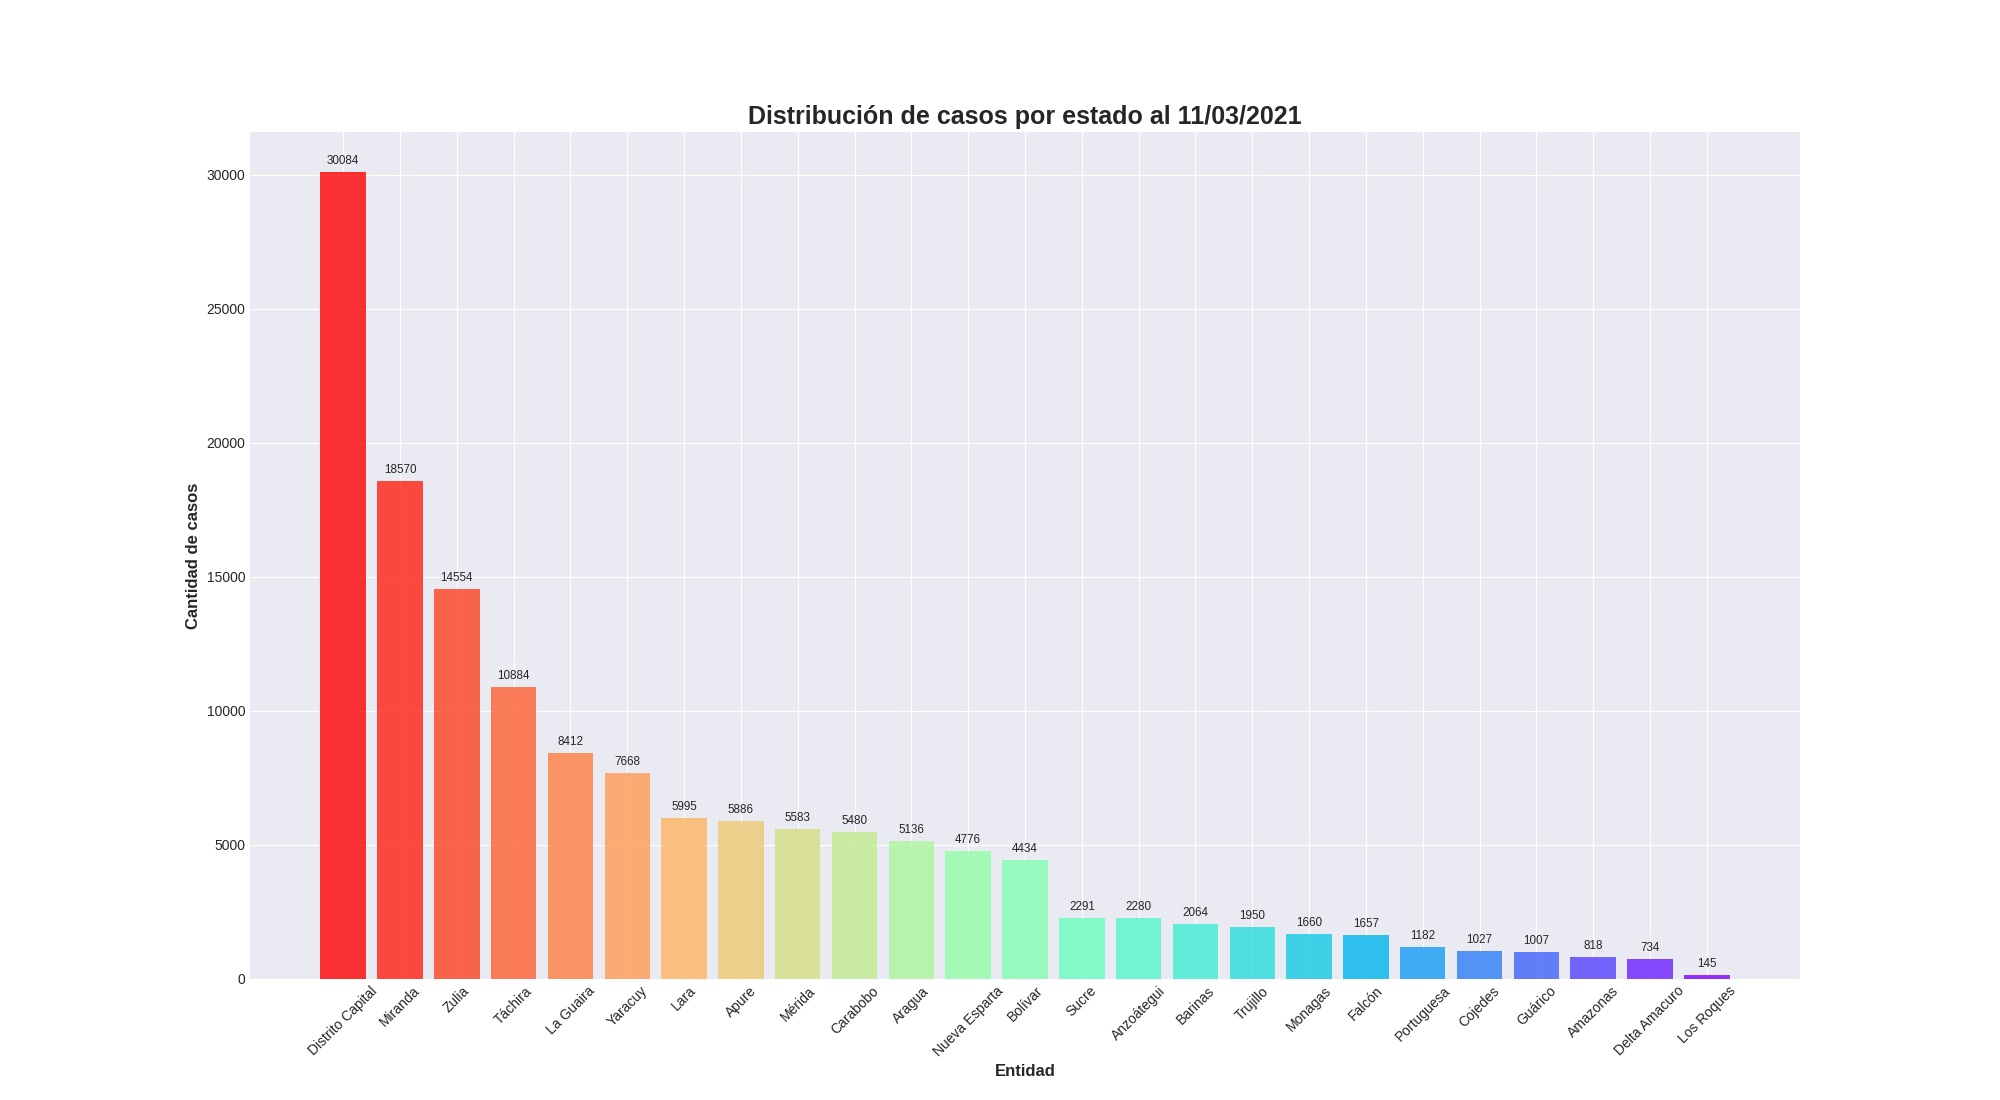
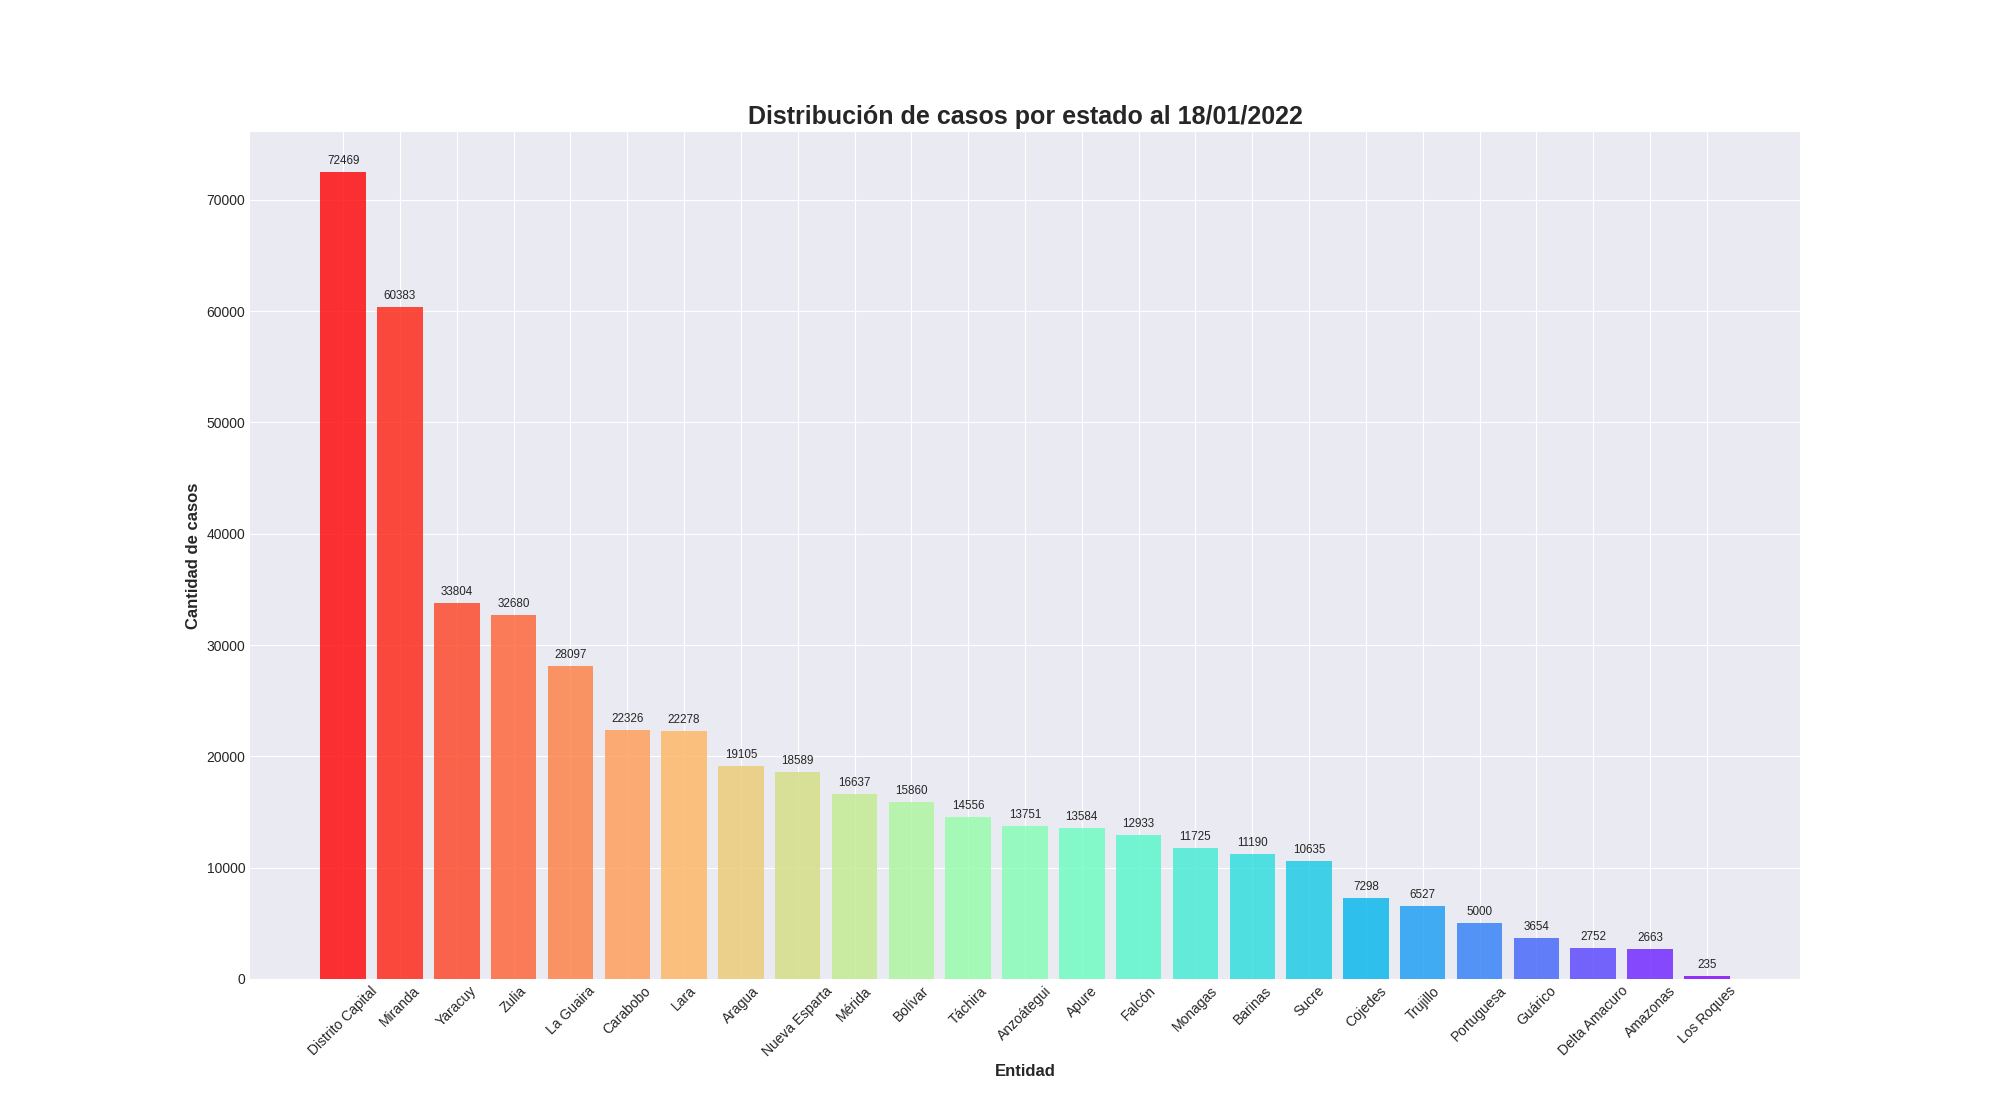
[ADD] Se introduce la funcionalidad de especificar un rango de dos fechas

diff --git a/corona-ve.py b/corona-ve.py
@@ -15,6 +15,7 @@ import numpy as np
 import pandas as pd
 import matplotlib.cm as cm
 import sys
+from datetime import datetime, time
 
 
 # Dimensión de los gráficos generados
@@ -27,7 +28,7 @@ plt.rcParams['axes.titleweight'] = 'bold'
 
 
 # Función para añadir valores encima de las gráficas
-def show_values_on_bars(axs,maxv):
+def show_values_on_bars(axs, maxv):
     def _show_on_single_plot(ax):
         for p in ax.patches:
             _x = p.get_x() + p.get_width() / 2
@@ -41,17 +42,37 @@ def show_values_on_bars(axs,maxv):
     else:
         _show_on_single_plot(axs)
 
-def show_values_on_lines(x,y):
-        #for i,j in zip(x,y):
-            #if int(j) > 0:
-                #ax.annotate(str(j),xy=(i,j), xytext=(-5,6), textcoords='offset points', size="x-small")
-        ax.annotate(str(y),xy=(x,y), xytext=(5,-1), textcoords='offset points', size="x-small")
+
+def show_values_on_lines(x, y):
+    # for i,j in zip(x,y):
+    # if int(j) > 0:
+    #ax.annotate(str(j),xy=(i,j), xytext=(-5,6), textcoords='offset points', size="x-small")
+    ax.annotate(str(y), xy=(x, y), xytext=(5, -1),
+                textcoords='offset points', size="x-small")
 
 
 # Carga de datos y generación de Data frames para los gráficos de línea de tiempo
 try:
+    arguments = len(sys.argv)-1
     timeline = pd.read_json('https://covid19.patria.org.ve/api/v1/timeline')
     timeline['Date'] = timeline['Date'].dt.date
+    f_ini = timeline['Date'].iloc[0]
+    f_fin = timeline['Date'].iloc[-1]
+    f_fin2 = timeline.iloc[-1]
+
+    if arguments > 0:
+        try:
+            f_ini = datetime.strptime(sys.argv[1], "%Y-%m-%d").date()
+            if arguments == 2:
+                f_fin = datetime.strptime(sys.argv[2], "%Y-%m-%d").date()
+
+            mask = (timeline['Date'] >= f_ini) & (timeline['Date'] <= f_fin)
+            timeline = timeline.loc[mask].reset_index()
+        except:
+            print(
+                "Error en formato de fecha, use el siguiente formato: YYYY-MM-DD o YYYY-M-D")
+            print("Se usarán los rangos de fecha predeterminados.")
+
     df_confirmed = pd.DataFrame(timeline.Confirmed.values.tolist())
     df_recovered = pd.DataFrame(timeline.Recovered.values.tolist())
     df_deaths = pd.DataFrame(timeline.Deaths.values.tolist())
@@ -65,8 +86,8 @@ try:
                         df_recovered['New'], df_deaths['New']], axis=1)
     nuevos.columns = ['Date', 'New_Confirmed', 'New_Recovered', 'New_Death']
     df_nuevos = nuevos.melt('Date', var_name='cols',  value_name='vals')
+    first_report = timeline.iloc[0]
     last_report = timeline.iloc[-1]
-
 
     # Carga de datos y generación de Data frames para los gráficos de resúmen
     summary = pd.read_json('https://covid19.patria.org.ve/api/v1/summary')
@@ -83,29 +104,33 @@ try:
     df_states = pd.DataFrame(
         summary.Confirmed['ByState'].items(), columns=["State", "Count"])
 
-
     # Gráfico del número de casos registrados en Venezuela
     fig, ax = plt.subplots(figsize=dims)
     ax.plot(confirmados["Date"], confirmados["Count"],
             '-', label='Confirmados (acumulados)', alpha=0.8)
-    show_values_on_lines(confirmados["Date"].iloc[-1], confirmados["Count"].iloc[-1])
+    show_values_on_lines(
+        confirmados["Date"].iloc[-1], confirmados["Count"].iloc[-1])
     ax.plot(recuperados["Date"], recuperados["Count"],
             '-', label='Recuperados (acumulados)', alpha=0.8)
-    show_values_on_lines(recuperados["Date"].iloc[-1], recuperados["Count"].iloc[-1])
+    show_values_on_lines(
+        recuperados["Date"].iloc[-1], recuperados["Count"].iloc[-1])
     ax.plot(activos["Date"], activos["Count"],
             '-', label='Activos (acumulados)', alpha=0.8)
     show_values_on_lines(activos["Date"].iloc[-1], activos["Count"].iloc[-1])
     ax.plot(fallecidos["Date"], fallecidos["Count"],
             '-', label='Fallecidos (acumulados)', alpha=0.8)
-    show_values_on_lines(fallecidos["Date"].iloc[-1], fallecidos["Count"].iloc[-1])
-    #ax.bar(nuevos["Date"],nuevos["New_Confirmed"],color='C6')
+    show_values_on_lines(
+        fallecidos["Date"].iloc[-1], fallecidos["Count"].iloc[-1])
+    # ax.bar(nuevos["Date"],nuevos["New_Confirmed"],color='C6')
     ax.plot(nuevos["Date"], nuevos["New_Confirmed"],
             '-', label='Confirmados (diarios)', color='black', alpha=0.8)
-    show_values_on_lines(nuevos["Date"].iloc[-1], nuevos["New_Confirmed"].iloc[-1])
+    show_values_on_lines(nuevos["Date"].iloc[-1],
+                         nuevos["New_Confirmed"].iloc[-1])
     plt.xticks(rotation=45, ha='center')
     plt.xlabel("")
     plt.ylabel("Cantidad de casos", fontsize=12, weight='bold')
-    plt.title("Casos de COVID-19 en Venezuela al "+last_report['Date'].strftime('%d/%m/%Y'), fontsize=18, weight='bold')
+    plt.title("Casos de COVID-19 en Venezuela del " + first_report['Date'].strftime('%d/%m/%Y') + " al " +
+              last_report['Date'].strftime('%d/%m/%Y'), fontsize=18, weight='bold')
     # start, end = ax.get_xlim()
     # ax.xaxis.set_ticks(np.arange(start, end, 5))
     myFmt = mdates.DateFormatter('%Y-%m-%d')
@@ -113,30 +138,49 @@ try:
     ax.legend(loc='upper left', fontsize=12)
     plt.savefig("fig1.png")
 
-
+    # Gráfico del número de casos confirmados en Venezuela
+    fig, ax = plt.subplots(figsize=dims)
+    ax.plot(nuevos['Date'], nuevos["New_Confirmed"],
+            '-', label='Confirmados (acumulados)', alpha=0.8)
+    # ax.bar(nuevos['Date'], nuevos["New_Confirmed"],
+                #   width=1, label='Confirmados', alpha=0.8)
+    # show_values_on_lines(
+        # nuevos['Date'].iloc[-1], nuevos["New_Confirmed"].iloc[-1])
+    # ax.bar(nuevos["Date"],nuevos["New_Confirmed"],color='C6')
+    plt.xticks(rotation=45, ha='center')
+    plt.xlabel("")
+    plt.ylabel("Cantidad de casos", fontsize=12, weight='bold')
+    plt.title("Casos Diarios Confirmados de COVID-19 en Venezuela del " + first_report['Date'].strftime('%d/%m/%Y') + " al " +
+              last_report['Date'].strftime('%d/%m/%Y'), fontsize=18, weight='bold')
+    # start, end = ax.get_xlim()
+    # ax.xaxis.set_ticks(np.arange(start, end, 5))
+    myFmt = mdates.DateFormatter('%Y-%m-%d')
+    ax.xaxis.set_major_formatter(myFmt)
+    ax.legend(loc='upper left', fontsize=12)
+    plt.savefig("fig2.png")
 
     # Gráfico del número de casos nuevos en Venezuela
     fig, ax = plt.subplots(figsize=dims)
     x = date2num(nuevos['Date'])
     barwidth = .3
     bar1 = ax.bar(x - barwidth, nuevos["New_Confirmed"],
-                width=barwidth, label='Confirmados', alpha=0.8)
+                  width=barwidth, label='Confirmados', alpha=0.8)
     bar2 = ax.bar(x, nuevos["New_Recovered"],
-                width=barwidth, label='Recuperados', alpha=0.8)
+                  width=barwidth, label='Recuperados', alpha=0.8)
     bar3 = ax.bar(x + barwidth, nuevos["New_Death"],
-                width=barwidth, label='Fallecidos', color='C3', alpha=0.8)
+                  width=barwidth, label='Fallecidos', color='C3', alpha=0.8)
     plt.xticks(rotation=45, ha='center')
-    start, end = ax.get_xlim()
-    #ax.xaxis.set_ticks(np.arange(start, end, 5))
-    #show_values_on_bars(ax)
+    # show_values_on_bars(ax)
     plt.xlabel("")
     plt.ylabel("Cantidad de casos", fontsize=12, weight='bold')
-    plt.title("Casos diarios de COVID-19 en Venezuela al "+last_report['Date'].strftime('%d/%m/%Y'), fontsize=18, weight='bold')
+    plt.title("Casos diarios de COVID-19 en Venezuela del " + first_report['Date'].strftime('%d/%m/%Y') + " al " +
+              last_report['Date'].strftime('%d/%m/%Y'), fontsize=18, weight='bold')
+    # start, end = ax.get_xlim()
+    #ax.xaxis.set_ticks(np.arange(start, end, 5))
     myFmt = mdates.DateFormatter('%Y-%m-%d')
     ax.xaxis.set_major_formatter(myFmt)
     ax.legend(loc='upper left', fontsize=12)
-    plt.savefig("fig2.png")
-
+    plt.savefig("fig3.png")
 
     #    # Gráfico de casos en Venezuela
     #    fig, ((ax1, ax2, ax3, ax4)) = plt.subplots(
@@ -166,43 +210,43 @@ try:
     #        ax.label_outer()
     #    plt.savefig("fig3.png")
 
-
     # Gráfico de distribución por género de casos en Venezuela
     fig, ax = plt.subplots(figsize=dims)
-    ax.pie(count_gender, labels=labels_gender, colors=['C0', 'C1'], wedgeprops={'alpha':0.8},
-        autopct=lambda p: '{:.0f}'.format(p * int(summary.Confirmed['Count']) / 100), shadow=False, startangle=90)
+    ax.pie(count_gender, labels=labels_gender, colors=['C0', 'C1'], wedgeprops={'alpha': 0.8},
+           autopct=lambda p: '{:.0f}'.format(p * int(summary.Confirmed['Count']) / 100), shadow=False, startangle=90)
     # centre_circle = plt.Circle((0, 0), 0.7, fc='white')
     fig = plt.gcf()
     # fig.gca().add_artist(centre_circle)
     plt.axis('equal')
-    plt.title("Distribución de casos por género al "+last_report['Date'].strftime('%d/%m/%Y'), fontsize=18, weight='bold')
+    plt.title("Distribución de casos por género al " +
+              f_fin2['Date'].strftime('%d/%m/%Y'), fontsize=18, weight='bold')
     fig.savefig("fig4.png")
-
 
     # Gráfico de distribución por edades de casos en Venezuela
     fig, ax = plt.subplots(figsize=dims)
-    ax.bar(df_ages["Range"], df_ages["Count"], color=['C0', 'C1', 'C2', 'C3', 'C4', 'C5', 'C6', 'C7', 'C8', 'C9'], alpha=0.8)
-    maxv=max(df_ages["Count"])
-    show_values_on_bars(ax,maxv)
+    ax.bar(df_ages["Range"], df_ages["Count"], color=[
+        'C0', 'C1', 'C2', 'C3', 'C4', 'C5', 'C6', 'C7', 'C8', 'C9'], alpha=0.8)
+    maxv = max(df_ages["Count"])
+    show_values_on_bars(ax, maxv)
     plt.xlabel("Rango de edad", fontsize=12, weight='bold')
     plt.ylabel("Cantidad de casos", fontsize=12, weight='bold')
-    plt.title("Distribución de casos por edad al "+last_report['Date'].strftime('%d/%m/%Y'), fontsize=18, weight='bold')
+    plt.title("Distribución de casos por edad al " +
+              f_fin2['Date'].strftime('%d/%m/%Y'), fontsize=18, weight='bold')
     fig.savefig("fig5.png")
-
 
     # Gráfico de distribución por estados
     fig, ax = plt.subplots(figsize=dims)
     colors = cm.rainbow(np.linspace(1, 0, len(df_states["State"])))
     df_states.sort_values(by=['Count'], inplace=True, ascending=False)
     ax.bar(df_states["State"], df_states["Count"], color=colors, alpha=0.8)
-    maxv=max(df_states["Count"])
-    show_values_on_bars(ax,maxv)
+    maxv = max(df_states["Count"])
+    show_values_on_bars(ax, maxv)
     plt.xlabel("Entidad", fontsize=12, weight='bold')
     plt.ylabel("Cantidad de casos", fontsize=12, weight='bold')
-    plt.title("Distribución de casos por estado al "+last_report['Date'].strftime('%d/%m/%Y'), fontsize=18, weight='bold')
+    plt.title("Distribución de casos por estado al " +
+              f_fin2['Date'].strftime('%d/%m/%Y'), fontsize=18, weight='bold')
     plt.xticks(rotation=45, )
     fig.savefig("fig6.png")
-
 
     # Salida por cónsola
     print()
@@ -213,12 +257,6 @@ try:
     print("Fallecidos: \t",  int(summary.Deaths['Count']))
     print("Activos: \t",  int(summary.Active['Count']))
     print()
-    print("Nuevos casos al", last_report['Date'].strftime('%d/%m/%Y'))
-    print("===========================")
-    print("Confirmados: \t",  int(last_report['Confirmed']['New']))
-    print("Recuperados: \t",  int(last_report['Recovered']['New']))
-    print("Fallecidos: \t",  int(last_report['Deaths']['New']))
-    print()
     print("Estadísticas")
     print("===========================")
     print("Letalidad: \t{0:3.2f}%".format(
@@ -226,6 +264,12 @@ try:
     print("Recuperación: \t{0:3.2f}%".format(
         (int(summary.Recovered['Count'])/int(summary.Confirmed['Count']))*100))
     print()
-
-except:
-    print("Ha ocurrido un error:", sys.exc_info()[0])
+    print("Casos del día ", last_report['Date'].strftime('%d/%m/%Y'))
+    print("===========================")
+    print("Confirmados: \t",  int(last_report['Confirmed']['New']))
+    print("Recuperados: \t",  int(last_report['Recovered']['New']))
+    print("Fallecidos: \t",  int(last_report['Deaths']['New']))
+    print()
+except BaseException as err:
+    print("Ha ocurrido un error:", err)
+    print()

diff --git a/README.md b/README.md
@@ -10,23 +10,23 @@ Script en Python para generación de gráficos referentes a los casos de COVID-1
 * numpy
 * pandas
 
+
 ----
 
-## Muestra:
+## Entrada del terminal (ejemplos):
 
-[![Casos confirmados](./images/fig1.png "Casos confirmados")](/images/fig1.png)
-
-
-[![Casos nuevos](./images/fig2.png "Casos diarios")](/images/fig2.png)
+* Forma predeterminada, mostrará los datos desde el primer registro hasta el último ofrecido por la API.
 
 
-[![Casos por género](./images/fig4.png "Distribución de casoso por género")](/images/fig4.png)
+    `python corona-ve.py`
 
+* Un solo argumento, mostrará los datos desde la fecha introducida hasta el último ofrecido por la API.
 
-[![Casos por edad](./images/fig5.png "Distribución de casos por edad")](/images/fig5.png)
+    `python corona-ve.py 2022-01-01`
 
+* Dos argumentos, mostrará los datos entre los rangos de fecha introducidos.
 
-[![Casos por estado](./images/fig6.png "Distribución de casos por edad")](/images/fig6.png)
+    `python corona-ve.py 2021-01-01 2021-12-31`
 
 ----
 
@@ -34,22 +34,42 @@ Script en Python para generación de gráficos referentes a los casos de COVID-1
     
     Casos COVID-19 en Venezuela
     ===========================
-    Confirmados:     325
-    Recuperados:     137
-    Fallecidos:      10
-    Activos:         178
-    
-    Nuevos casos al 26/04/2020
-    ===========================
-    Confirmados:     2
-    Recuperados:     5
-    Fallecidos:      0 
-    
+    Confirmados:     458731
+    Recuperados:     439641
+    Fallecidos:      5387
+    Activos:         13703
+
     Estadísticas
     ===========================
-    Letalidad:      3.08%
-    Recuperación:   42.15%
+    Letalidad:      1.17%
+    Recuperación:   95.84%
+
+    Casos del día  18/01/2022
+    ===========================
+    Confirmados:     2090
+    Recuperados:     919
+    Fallecidos:      4
     
+----
+
+## Gráficos:
+
+[![Casos confirmados](./images/fig1.png "Casos confirmados")](/images/fig1.png)
+
+
+[![Casos confirmados nuevos](./images/fig2.png "Nuevos casos confirmados diarios")](/images/fig2.png)
+
+
+[![Casos nuevos](./images/fig3.png "Nuevos casos diarios")](/images/fig3.png)
+
+
+[![Casos por género](./images/fig4.png "Distribución de casos por género")](/images/fig4.png)
+
+
+[![Casos por edad](./images/fig5.png "Distribución de casos por edad")](/images/fig5.png)
+
+
+[![Casos por estado](./images/fig6.png "Distribución de casos por edad")](/images/fig6.png)
 
 ----
 
